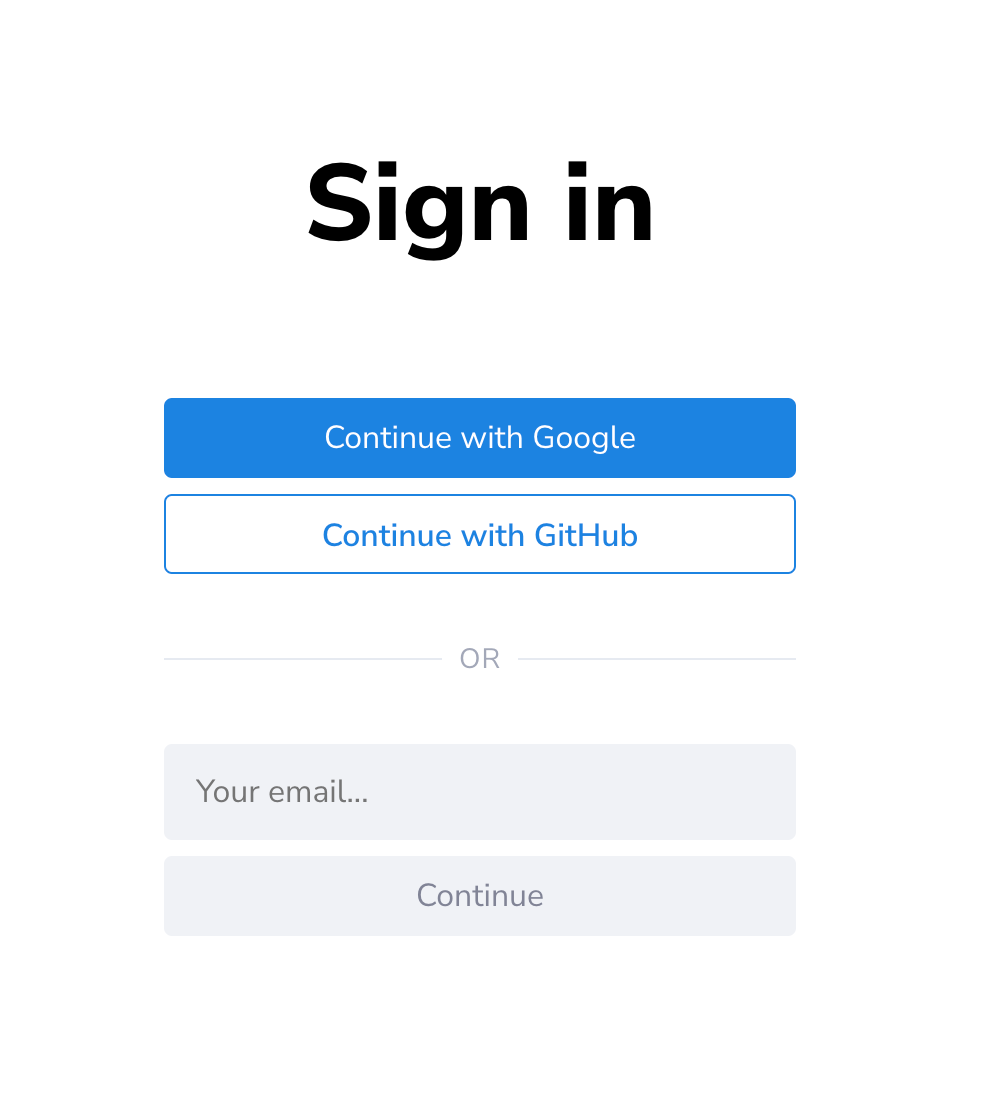
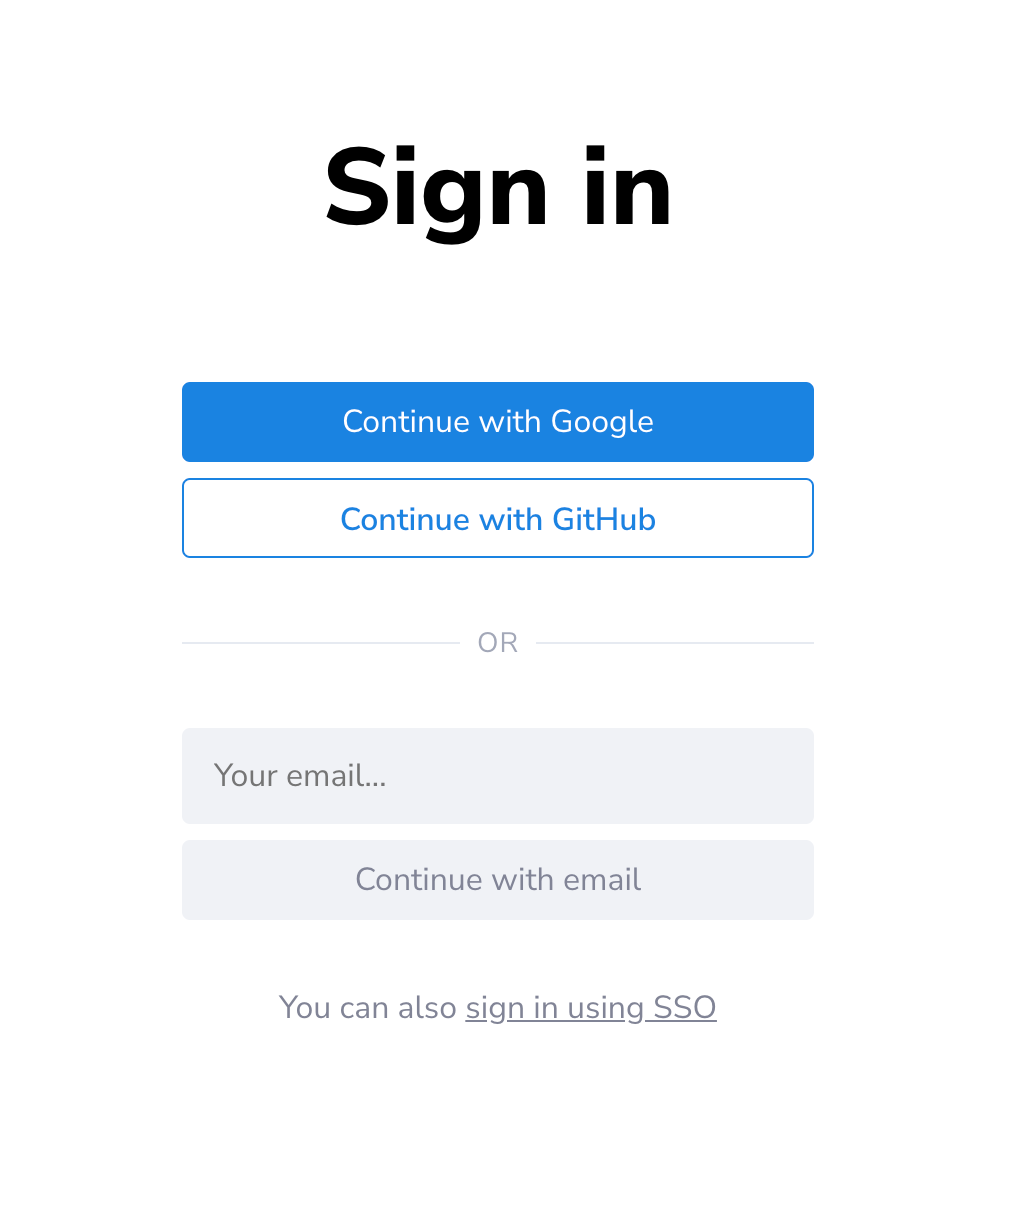
Update Cloud docs for new sign-in method

diff --git a/styles/global/global.scss b/styles/global/global.scss
@@ -69,6 +69,14 @@ ul {
   }
 }
 
+ol {
+  list-style-type: decimal;
+
+  ol {
+    list-style-type: lower-roman;
+  }
+}
+
 ul {
   list-style: disc;
 

diff --git a/content/streamlit-cloud/get-started/share-your-app/index.md b/content/streamlit-cloud/get-started/share-your-app/index.md
@@ -21,9 +21,7 @@ By default all apps deployed from private source code are private to the develop
 
 ### What is viewer auth?
 
-Viewer auth allows you to restrict the viewers of your app using single sign-on (SSO), which means listing out the specified Gmail, G-Suite, and SSO-enabled email addresses and specified domains that your company uses.
-
-For example, your company email may be susan@company.com but it's administered by Google (which means you go to mail.google.com or you use things like Drive and Google Sheets).
+Viewer auth allows you to restrict the viewers of your app. To access your app, users have to authenticate using an email-based passwordless login or [single sign-on (SSO)](/streamlit-cloud/get-started/share-your-app/configuring-single-on-sso).
 
 ### Configuring single sign-on
 
@@ -46,11 +44,11 @@ If you add an entire email domain, anyone with an email address which uses that 
 From your deployed app you can easily add viewers from your developer console.
 
 1. **Select "Manage app" in the lower right corner.**
-<div style={{ maxWidth: '45%' }}>
+<div style={{ maxWidth: '45%', marginBottom: '-3em', marginLeft: '10em' }}>
     <Image src="/images/streamlit-cloud/manage-app.png" />
 </div>
 2. **Choose "Settings" from the menu.**
-<div style={{ maxWidth: '45%' }}>
+<div style={{ maxWidth: '45%', marginBottom: '-3em', marginLeft: '10em' }}>
     <Image src="/images/streamlit-cloud/settings-menu.png" />
 </div>
 3. **Add Viewers in Settings.**
@@ -67,7 +65,7 @@ You can also add viewers directly from your dashboard.
 
    Navigate to the app you want to add viewer to and click the hamburger icon to select "Settings."
 
-   <div style={{ maxWidth: '75%' }}>
+   <div style={{ maxWidth: '75%', marginBottom: '-3em', marginLeft: '5em' }}>
        <Image src="/images/streamlit-cloud/edit-secrets.png" />
    </div>
 
@@ -75,7 +73,7 @@ You can also add viewers directly from your dashboard.
 
    Click on the "Viewers" section in the App Settings and in the text input area, provide a line-separated list of email addresses for the users you wish to grant viewer access to your app, or provide a line-separated list of allowed email address domains. Click "Save."
 
-   <div style={{ maxWidth: '75%' }}>
+   <div style={{ maxWidth: '75%', marginBottom: '-3em', marginLeft: '5em' }}>
        <Image src="/images/streamlit-cloud/add-viewers.png" />
    </div>
 
@@ -87,7 +85,11 @@ From your deployed app you can click on the "☰" menu on the top right and sele
 
 To help others find and play with your Streamlit app, you can add Streamlit's GitHub badge to your repo. Below is an example of what the badge looks like. Clicking on the badge takes you to, in this case, Streamlit's Face-GAN Demo.
 
-[![Streamlit App](https://static.streamlit.io/badges/streamlit_badge_black_white.svg)](https://share.streamlit.io/streamlit/demo-face-gan)
+<div style={{ marginBottom: '-2em', marginLeft: '30%' }}>
+    <a href="https://share.streamlit.io/streamlit/demo-face-gan" target="_blank" style={{ borderBottom: 0 }}>
+    <Image src="https://static.streamlit.io/badges/streamlit_badge_black_white.svg" />
+    </a>
+</div>
 
 Once you deploy your app, you can embed this badge right into your GitHub README.md by adding the following Markdown:
 

diff --git a/content/streamlit-cloud/get-started/manage-your-app.md b/content/streamlit-cloud/get-started/manage-your-app.md
@@ -30,7 +30,7 @@ Once you've clicked on "Manage app" you will see the app terminal which lets you
 
 You can also click on the "︙" overflow menu at the bottom of the terminal to view other options for your app including the ability to download logs, reboot the app, delete the app, navigate to settings (which includes managing viewer access and app secrets), go to your app dashboard, go to documentation, contact support, or sign out.
 
-<div style={{ maxWidth: '45%' }}>
+<div style={{ maxWidth: '45%', marginBottom: '-3em', marginLeft: '10em' }}>
     <Image src="/images/streamlit-cloud/app-terminal-overflow.png" />
 </div>
 
@@ -38,7 +38,7 @@ You can also click on the "︙" overflow menu at the bottom of the terminal to v
 
 When you first log into share.streamlit.io you will land on your app dashboard, which gives you a list of all your deployed apps. This list does include apps deployed by other developers in your workspace, since you're all managers of those apps. Such apps are indicated with an icon like this one:
 
-<div style={{ maxWidth: '45%' }}>
+<div style={{ maxWidth: '45%', marginBottom: '-3em', marginLeft: '10em' }}>
     <Image src="/images/streamlit-cloud/app-dashboard.png" />
 </div>
 
@@ -101,7 +101,7 @@ Private apps on Teams or Enterprise plans will not hibernate, but for public and
   - Visit the app (create traffic).
   - Push a commit to the app (this can be empty!).
 - If left alone the app will go to sleep at the 7 day mark (2 days after you receive the email). When someone visits the app after this, they will see the sleeping page:
-    <div style={{ maxWidth: '55%' }}>
+    <div style={{ maxWidth: '55%', marginBottom: '-3em', marginLeft: '5em' }}>
         <Image src="/images/spin_down.png" />
     </div>
 - To wake the app up, press the "Yes, get this app back up!" button. This can be done by *anyone* who wants to view the app, not just the app developer!

diff --git a/content/streamlit-cloud/get-started/index.md b/content/streamlit-cloud/get-started/index.md
@@ -37,9 +37,17 @@ Once you've selected a package, login to [share.streamlit.io](http://share.strea
 
 ## Log in to share.streamlit.io
 
-You have the choice to login with GitHub or Google. We recommend starting with GitHub the first time you log in, and then [connecting your Google account]() or [SSO provider afterwards](/streamlit-cloud/get-started/share-your-app/configuring-single-on-sso).
+You can login to Streamlit Cloud with:
 
-<div style={{ maxWidth: '45%', marginBottom: '-3em' }}>
+1. Google
+2. GitHub
+3. Email based sign-in link: These are single-use links that are valid for up to 15 minutes.
+
+If you're a developer, we recommend starting with GitHub the first time you login. You can later setup your account to login using Google or an [SSO provider](/streamlit-cloud/get-started/share-your-app/configuring-single-on-sso).
+
+If you're sharing your app, your app's users can use any of the above methods to login.
+
+<div style={{ maxWidth: '50%', marginBottom: '-3em', marginLeft: '10em' }}>
     <Image alt="Cloud sign in" src="/images/streamlit-cloud/cloud-sign-in.png" />
 </div>
 
